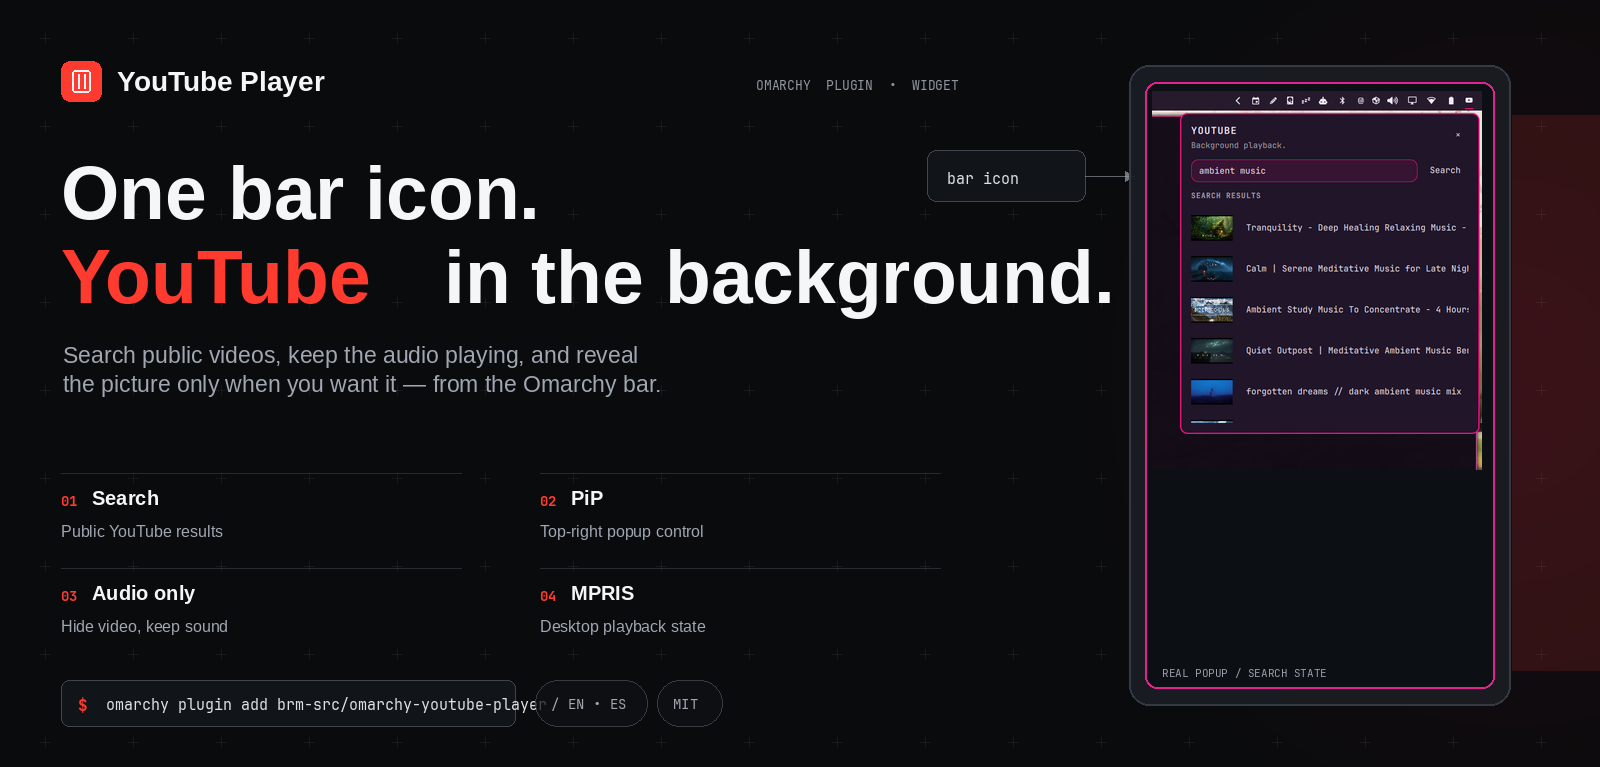
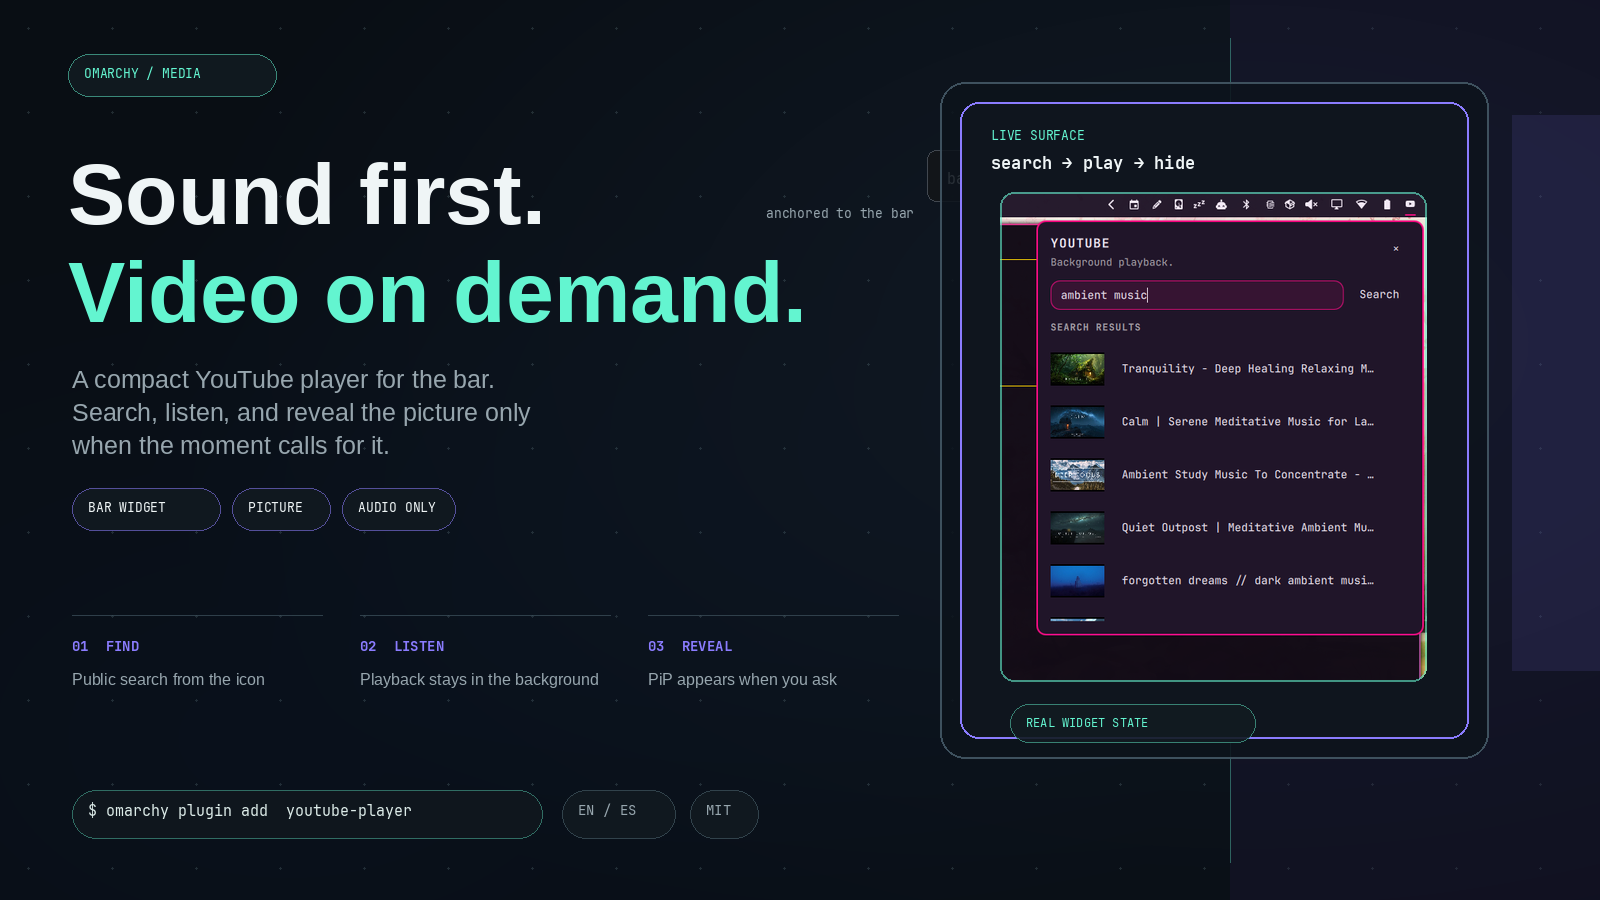
docs: redesign GitHub visuals

diff --git a/README.md b/README.md
@@ -1,6 +1,6 @@
 # YouTube Player for Omarchy
 
-A compact YouTube player for the Omarchy bar.
+A bar-native YouTube player for Omarchy: search public videos, keep audio in the background, and reveal PiP on demand.
 
 ![YouTube Player for Omarchy](screenshots/hero.png)
 
